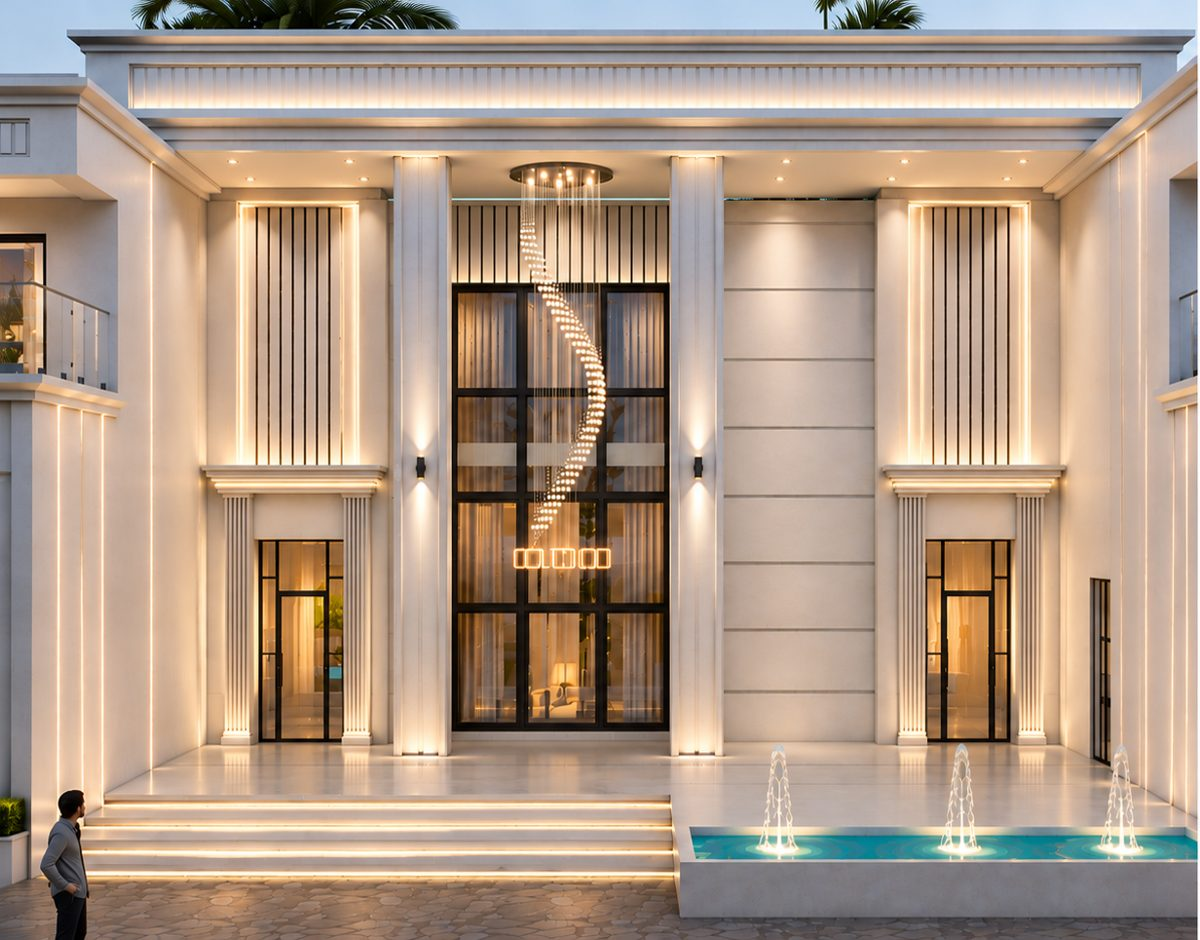
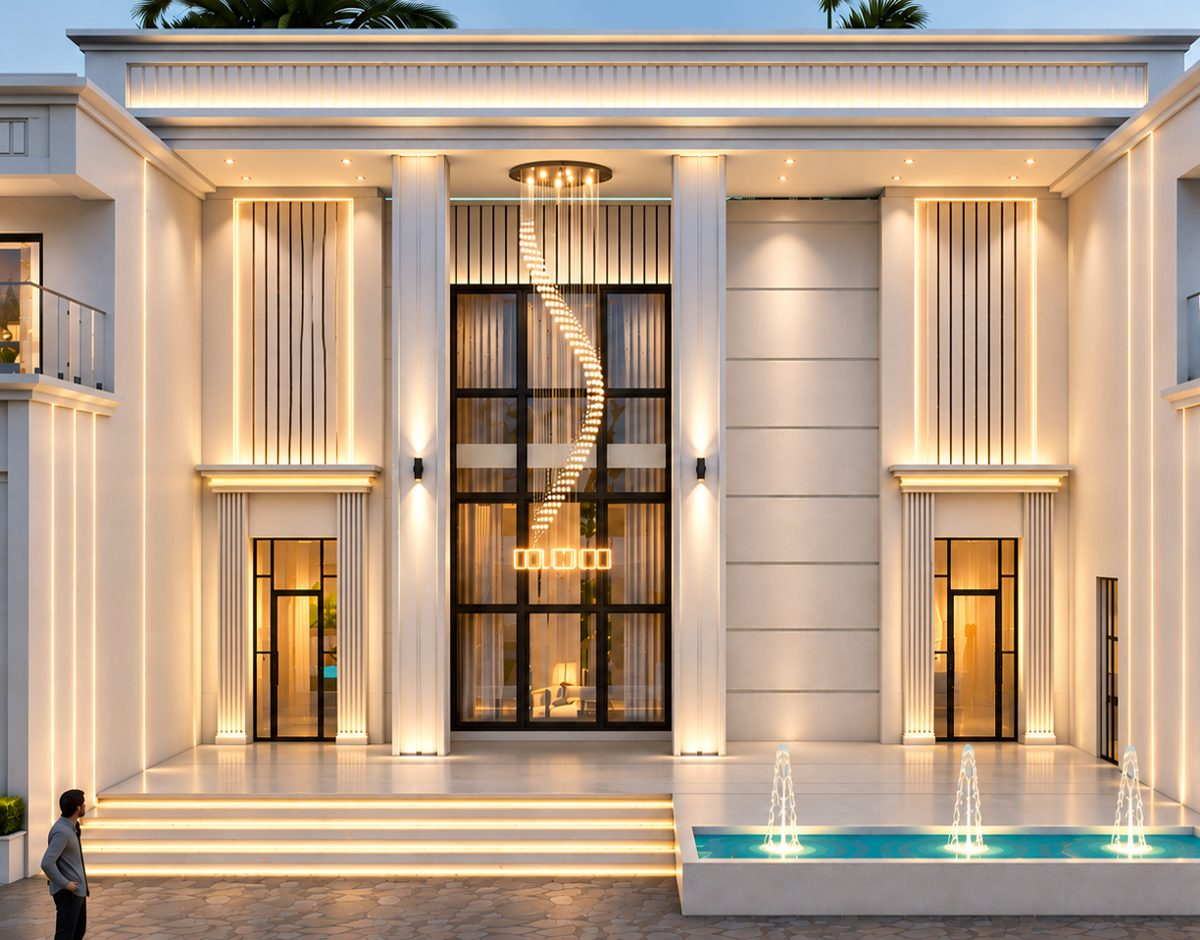
Villa entrance: merge options 2 and 3, Arabic-only text
Claude-Session: https://claude.ai/code/session_0113K5N3gWMrq3QASZeS9TqD

diff --git a/villa-entrance/index.html b/villa-entrance/index.html
@@ -30,7 +30,7 @@ section{display:none;padding:14px 12px}section.on{display:block}
 .ph .sw b.on{background:var(--gold);color:#1a140d}
 .ph .no{position:absolute;top:10px;right:10px;background:#000a;color:var(--gold);font-size:13px;padding:4px 10px;border-radius:999px}
 .bd{padding:14px}
-.bd h2{font-size:18px}.bd .en{color:var(--mut);font-size:12px;direction:ltr;text-align:right}
+.bd h2{font-size:18px}
 .chips{display:flex;flex-wrap:wrap;gap:6px;margin:10px 0}
 .chips span{font-size:12px;border:1px solid var(--line);padding:4px 9px;border-radius:999px;color:#d9cfc2}
 .bd p{font-size:13.5px;line-height:1.7;color:#d9cfc2}
@@ -69,7 +69,7 @@ section{display:none;padding:14px 12px}section.on{display:block}
 <body>
 <header>
 <small>ARCHTVERSE</small>
-<h1>مدخل الفيلا — ٤ تصاميم مقترحة</h1>
+<h1>مدخل الفيلا — ٣ تصاميم مقترحة</h1>
 <p>جميع التصاميم من نفس الزاوية؛ الفرق فقط في إطار الأبواب الجانبية والإضاءة.</p>
 </header>
 <nav>
@@ -94,17 +94,16 @@ section{display:none;padding:14px 12px}section.on{display:block}
 
 <script>
 const O=[
-{ar:"كلاسيك هادئ",en:"Classic · Soft",c:["أعمدة مخددة وتاج كلاسيكي","إضاءة هادئة","تنفيذ بسيط"],p:"إطار كلاسيكي بأعمدة مخددة حول الأبواب الجانبية، مع إضاءة خطية ناعمة حول الألواح. أجواء دافئة وهادئة."},
-{ar:"كلاسيك بإضاءة سفلية",en:"Classic · Uplight",c:["أعمدة مخددة وتاج كلاسيكي","إضاءة متوسطة","إضاءة أسفل الأعمدة"],p:"نفس الإطار الكلاسيكي مع إضاءة موجّهة للأعلى عند قاعدة الأعمدة، تُبرز ارتفاعها وتفاصيلها."},
-{ar:"كلاسيك مشرق",en:"Classic · Radiant",c:["أعمدة مخددة وتاج كلاسيكي","إضاءة قوية","إضاءة داخل التخديد"],p:"إضاءة خطية داخل تخديدات الأعمدة وحولها؛ الواجهة الأكثر توهجاً وفخامة في الليل. تنفيذ وصيانة أدق."},
-{ar:"مودرن بسيط",en:"Modern · Minimal",c:["إطار بسيط بدون تاج","إضاءة محيطية","طابع عصري"],p:"الأبواب الجانبية بدون أعمدة وتاج، مع خطوط إضاءة محيطية نظيفة. طابع أكثر حداثة وبساطة."}];
+{ar:"كلاسيك هادئ",c:["أعمدة مخددة وتاج كلاسيكي","إضاءة هادئة","تنفيذ أبسط"],p:"إطار كلاسيكي بأعمدة مخددة حول الأبواب الجانبية، مع إضاءة خطية ناعمة حول الألواح. أجواء دافئة وهادئة."},
+{ar:"كلاسيك مشرق",c:["أعمدة مخددة وتاج كلاسيكي","إضاءة أقوى","إبراز الأعمدة بالإضاءة"],p:"نفس الإطار الكلاسيكي مع إضاءة أقوى على الأعمدة والواجهة؛ أجواء أكثر توهجاً وفخامة في الليل."},
+{ar:"مودرن بسيط",c:["إطار بسيط بدون تاج","إضاءة محيطية","طابع عصري"],p:"الأبواب الجانبية بدون أعمدة وتاج، مع خطوط إضاءة محيطية نظيفة. طابع أكثر حداثة وبساطة."}];
 const $=s=>document.querySelector(s);let pick=-1;
 try{pick=+localStorage.getItem("pick");if(isNaN(pick))pick=-1;if(localStorage.getItem("pick")===null)pick=-1}catch(e){}
 const rail=$("#rail"),dots=$("#dots");
 O.forEach((o,i)=>{const n=i+1;
-rail.insertAdjacentHTML("beforeend",`<div class="card" id="k${i}"><div class="ph"><img src="m${n}.jpg" alt="${o.ar}" data-i="${i}"><span class="no">التصميم ${n}</span>${n<4?'<div class="sw"><b class="on" data-s="m">الواجهة</b><b data-s="d">تفصيل الباب</b></div>':''}</div><div class="bd"><h2>${o.ar}</h2><div class="en">${o.en}</div><div class="chips">${o.c.map(x=>`<span>${x}</span>`).join("")}</div><p>${o.p}</p><button class="pk" data-i="${i}">اختيار هذا التصميم</button></div></div>`);
+rail.insertAdjacentHTML("beforeend",`<div class="card" id="k${i}"><div class="ph"><img src="m${n}.jpg" alt="${o.ar}" data-i="${i}"><span class="no">التصميم ${n}</span>${n<3?'<div class="sw"><b class="on" data-s="m">الواجهة</b><b data-s="d">تفصيل الباب</b></div>':''}</div><div class="bd"><h2>${o.ar}</h2><div class="chips">${o.c.map(x=>`<span>${x}</span>`).join("")}</div><p>${o.p}</p><button class="pk" data-i="${i}">اختيار هذا التصميم</button></div></div>`);
 dots.insertAdjacentHTML("beforeend","<i></i>");
-if(n<4)$("#grid").insertAdjacentHTML("beforeend",`<figure><img src="d${n}.jpg" data-z="d${n}.jpg"><figcaption>${n} · ${o.ar}</figcaption></figure>`);
+if(n<3)$("#grid").insertAdjacentHTML("beforeend",`<figure><img src="d${n}.jpg" data-z="d${n}.jpg"><figcaption>${n} · ${o.ar}</figcaption></figure>`);
 ["#sa","#sb"].forEach(s=>$(s).insertAdjacentHTML("beforeend",`<option value="${n}">${n} · ${o.ar}</option>`));});
 document.querySelectorAll(".card").forEach((k,i)=>{const im=k.querySelector("img");
 k.querySelectorAll(".sw b").forEach(b=>b.onclick=e=>{e.stopPropagation();k.querySelectorAll(".sw b").forEach(x=>x.classList.toggle("on",x===b));im.src=(b.dataset.s==="m"?"m":"d")+(i+1)+".jpg";im.style.objectFit=b.dataset.s==="m"?"cover":"contain"});
@@ -118,8 +117,8 @@ if(i<0)return;$("#ch").textContent=`التصميم ${i+1} — ${O[i].ar}`;const 
 w.href="https://wa.me/9647773944470?text="+encodeURIComponent(`مرحباً، اخترت لمدخل الفيلا: التصميم ${i+1} (${O[i].ar})`);}
 setPick(pick);
 document.querySelectorAll("nav button").forEach(b=>b.onclick=()=>{document.querySelectorAll("nav button").forEach(x=>x.classList.toggle("on",x===b));document.querySelectorAll("section").forEach(s=>s.classList.toggle("on",s.id===b.dataset.t))});
-let V="m";const sa=$("#sa"),sb=$("#sb");sa.value="1";sb.value="4";
-function cmp(){[sa,sb].forEach(s=>{s.options[3].disabled=V==="d";if(V==="d"&&s.value==="4")s.value=s===sa?"1":"3"});$("#ia").src=V+sa.value+".jpg";$("#ib").src=V+sb.value+".jpg";$("#la").textContent=sa.value;$("#lbB").textContent=sb.value;
+let V="m";const sa=$("#sa"),sb=$("#sb");sa.value="1";sb.value="3";
+function cmp(){[sa,sb].forEach(s=>{s.options[2].disabled=V==="d";if(V==="d"&&s.value==="4")s.value=s===sa?"1":"2"});$("#ia").src=V+sa.value+".jpg";$("#ib").src=V+sb.value+".jpg";$("#la").textContent=sa.value;$("#lbB").textContent=sb.value;
 document.querySelector(".cmp").style.aspectRatio=V==="m"?"1200/940":"440/950";document.querySelector(".cmp").style.maxWidth=V==="m"?"":"320px";document.querySelector(".cmp").style.margin=V==="m"?"":"0 auto"}
 sa.onchange=sb.onchange=cmp;cmp();
 document.querySelectorAll(".vw button").forEach(b=>b.onclick=()=>{V=b.dataset.v;document.querySelectorAll(".vw button").forEach(x=>x.classList.toggle("on",x===b));cmp()});

diff --git a/index.html b/index.html
@@ -1,3 +1,3 @@
-<!DOCTYPE html><html lang="ar" dir="rtl"><head><meta charset="utf-8"><meta name="viewport" content="width=device-width,initial-scale=1"><title>ArchTverse — Client Presentations</title><style>body{background:#14110e;color:#f3ece2;font-family:system-ui,sans-serif;padding:24px;max-width:600px;margin:auto}h1{font-size:20px;color:#d6b67a}a{display:block;padding:14px;margin:10px 0;border:1px solid #3a3028;border-radius:12px;color:#f3ece2;text-decoration:none}</style></head><body><h1>ArchTverse — Client Presentations</h1>
+<!DOCTYPE html><html lang="ar" dir="rtl"><head><meta charset="utf-8"><meta name="viewport" content="width=device-width,initial-scale=1"><title>ArchTverse — عروض المشاريع</title><style>body{background:#14110e;color:#f3ece2;font-family:system-ui,sans-serif;padding:24px;max-width:600px;margin:auto}h1{font-size:20px;color:#d6b67a}a{display:block;padding:14px;margin:10px 0;border:1px solid #3a3028;border-radius:12px;color:#f3ece2;text-decoration:none}</style></head><body><h1>ArchTverse — عروض المشاريع</h1>
 <a href="villa-entrance/">مدخل الفيلا — مقارنة التصاميم</a>
 </body></html>
